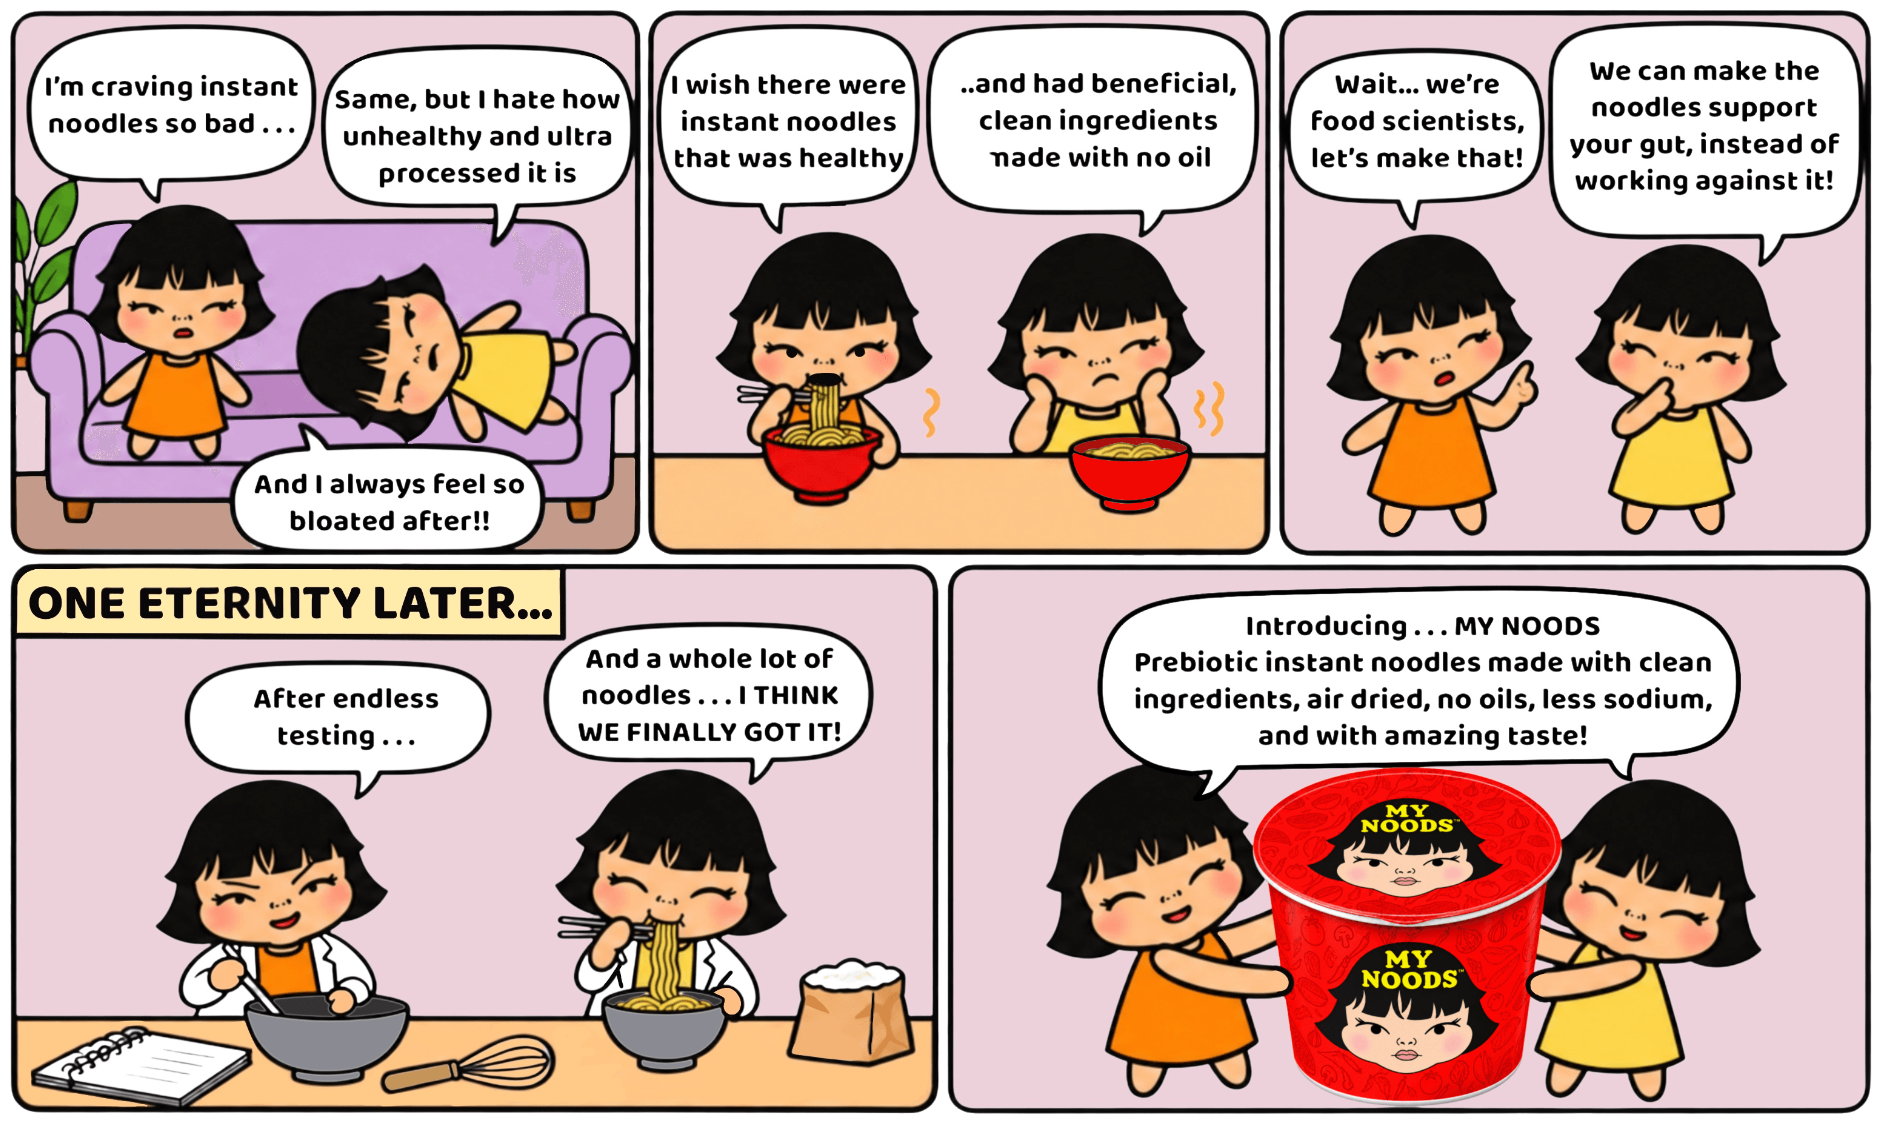
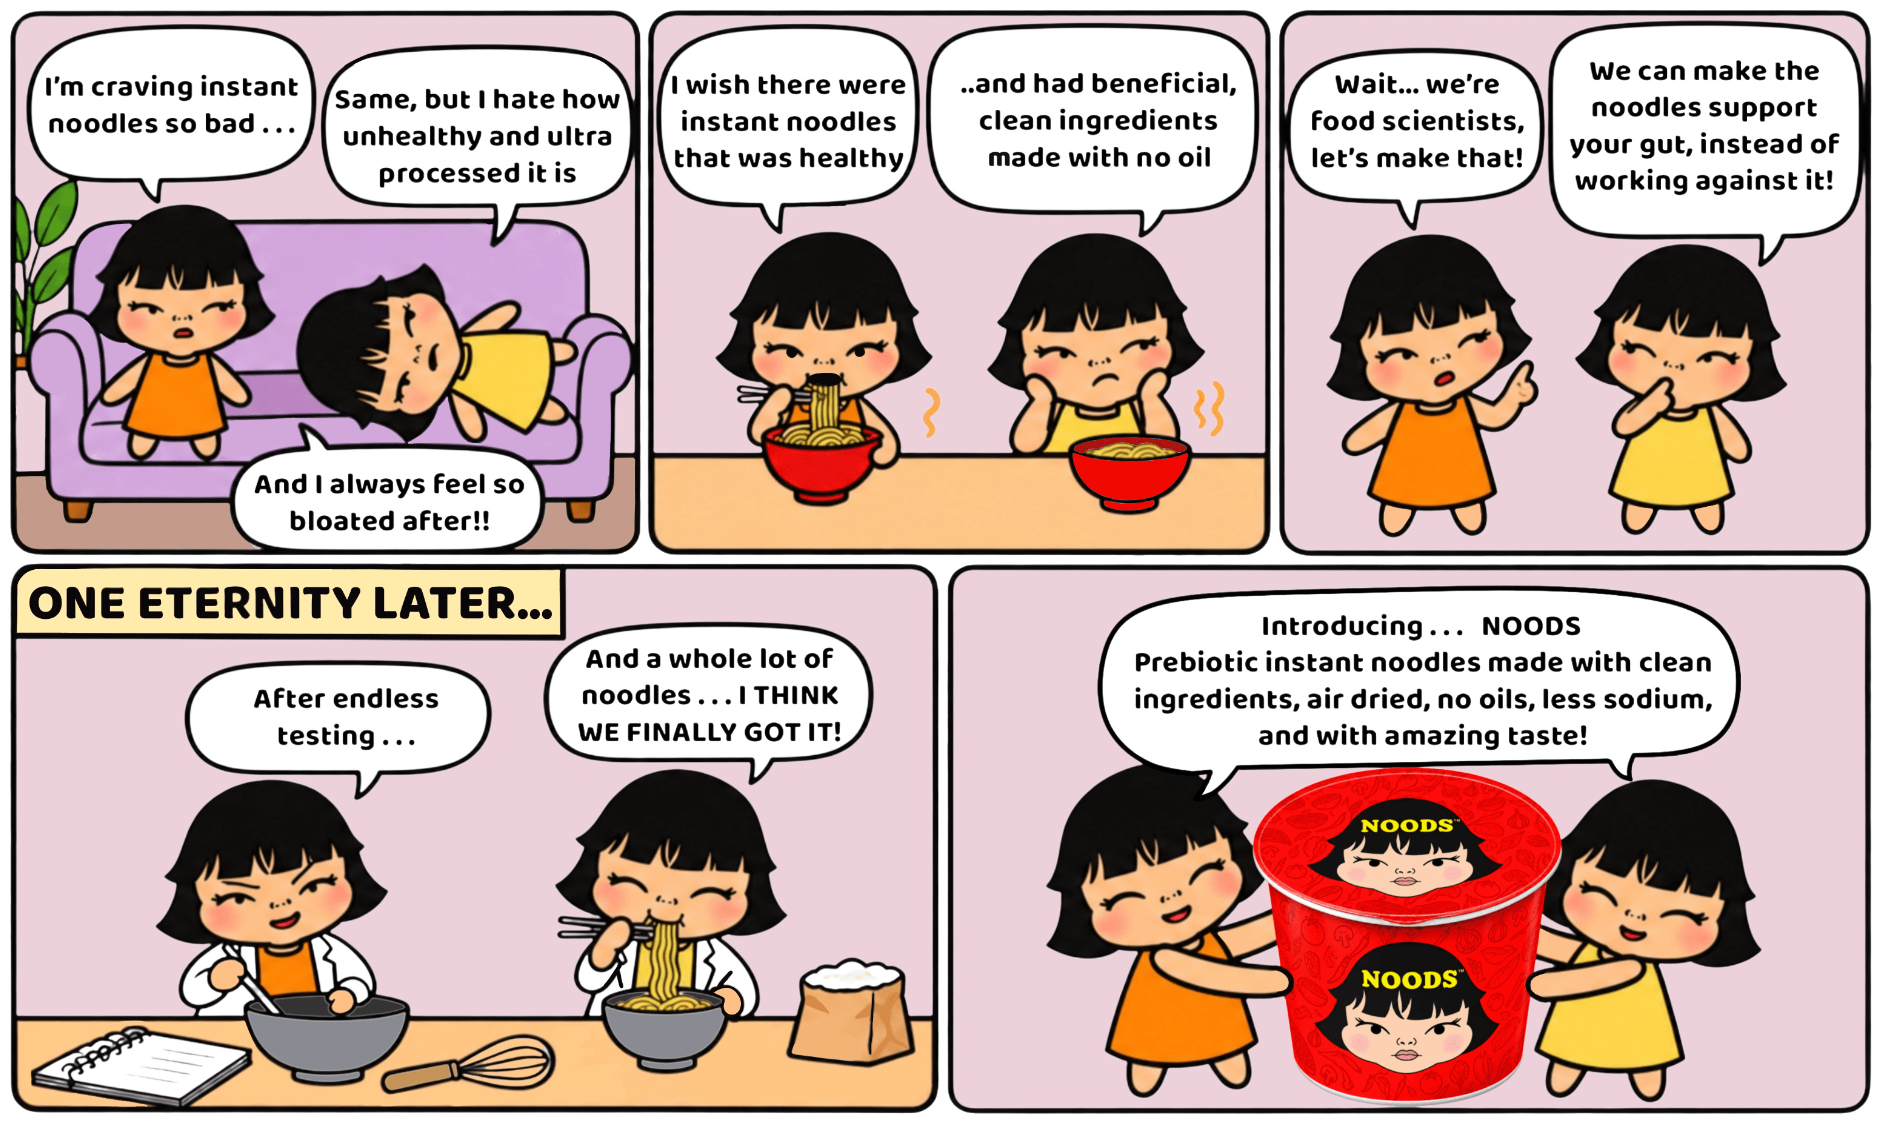
Replace founder comic with updated NOODS version

diff --git a/index.html b/index.html
@@ -191,10 +191,10 @@
         <figure class="founder-story__comic float-card reveal">
           <img
             class="founder-story__comic-img"
-            src="assets/founder-comic-strip.png?v=1"
-            alt="Comic strip: two friends crave instant noodles but hate feeling bloated from ultra-processed ones. Realizing they're food scientists, they decide to make noodles that support your gut. After endless testing, they introduce MY NOODS — prebiotic instant noodles with clean ingredients, air dried, no oils, less sodium, and amazing taste."
-            width="1880"
-            height="1122"
+            src="assets/founder-comic-strip.png?v=2"
+            alt="Comic strip: two friends crave instant noodles but hate feeling bloated from ultra-processed ones. Realizing they're food scientists, they decide to make noodles that support your gut. After endless testing, they introduce NOODS — prebiotic instant noodles with clean ingredients, air dried, no oils, less sodium, and amazing taste."
+            width="1882"
+            height="1124"
             loading="lazy"
             decoding="async"
           />
